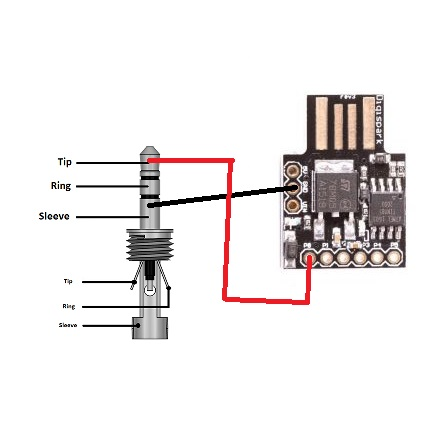
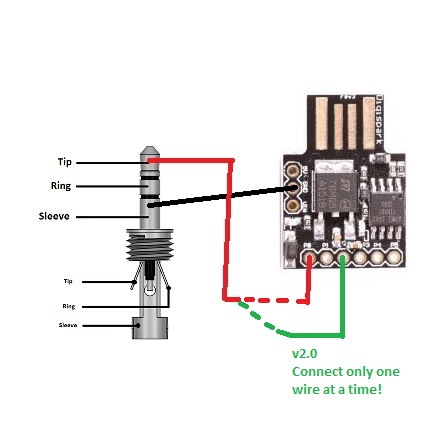
version v2.0

Changed region(s): [[0.5379, 0.5731, 0.9264, 0.935]]

diff --git a/README.md b/README.md
@@ -20,6 +20,13 @@ The controller will emulate a keyboard and send the needed character to the app 
 you key down. There shouldn't be any noticeable delay on Windows, Android, native Linux,
 while Wine on Linux is also usable.
 
+****** UPDATE v2.0 *******
+This version has two keying options, selectable by wire connection, or a switch.
+Wire for other character(s) should be connected to pin PB2 (we skip PB1 as it is connected
+to builtin LED). You can add switch or move the wire manually when you want to use
+a different program. DO NOT connect both at the same time!!! 
+
+---
 
 For setting up Arduino IDE in order to program Attiny use this tutorial:
 
